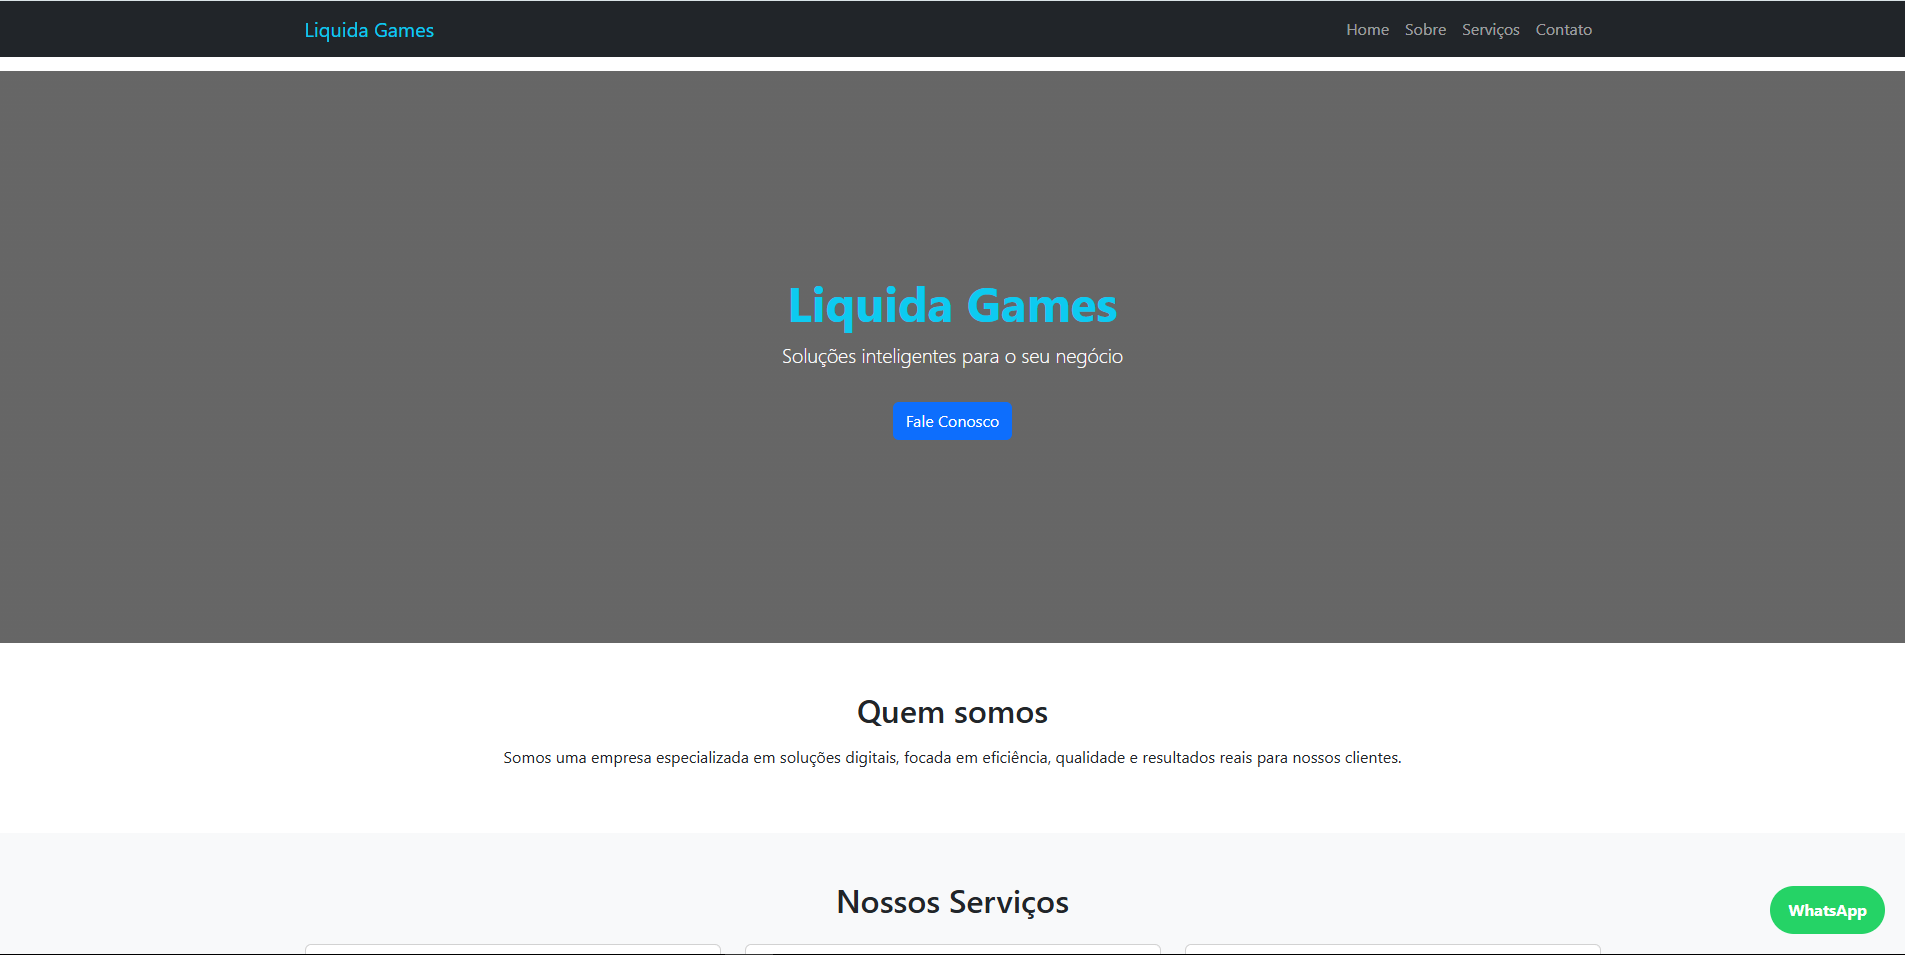
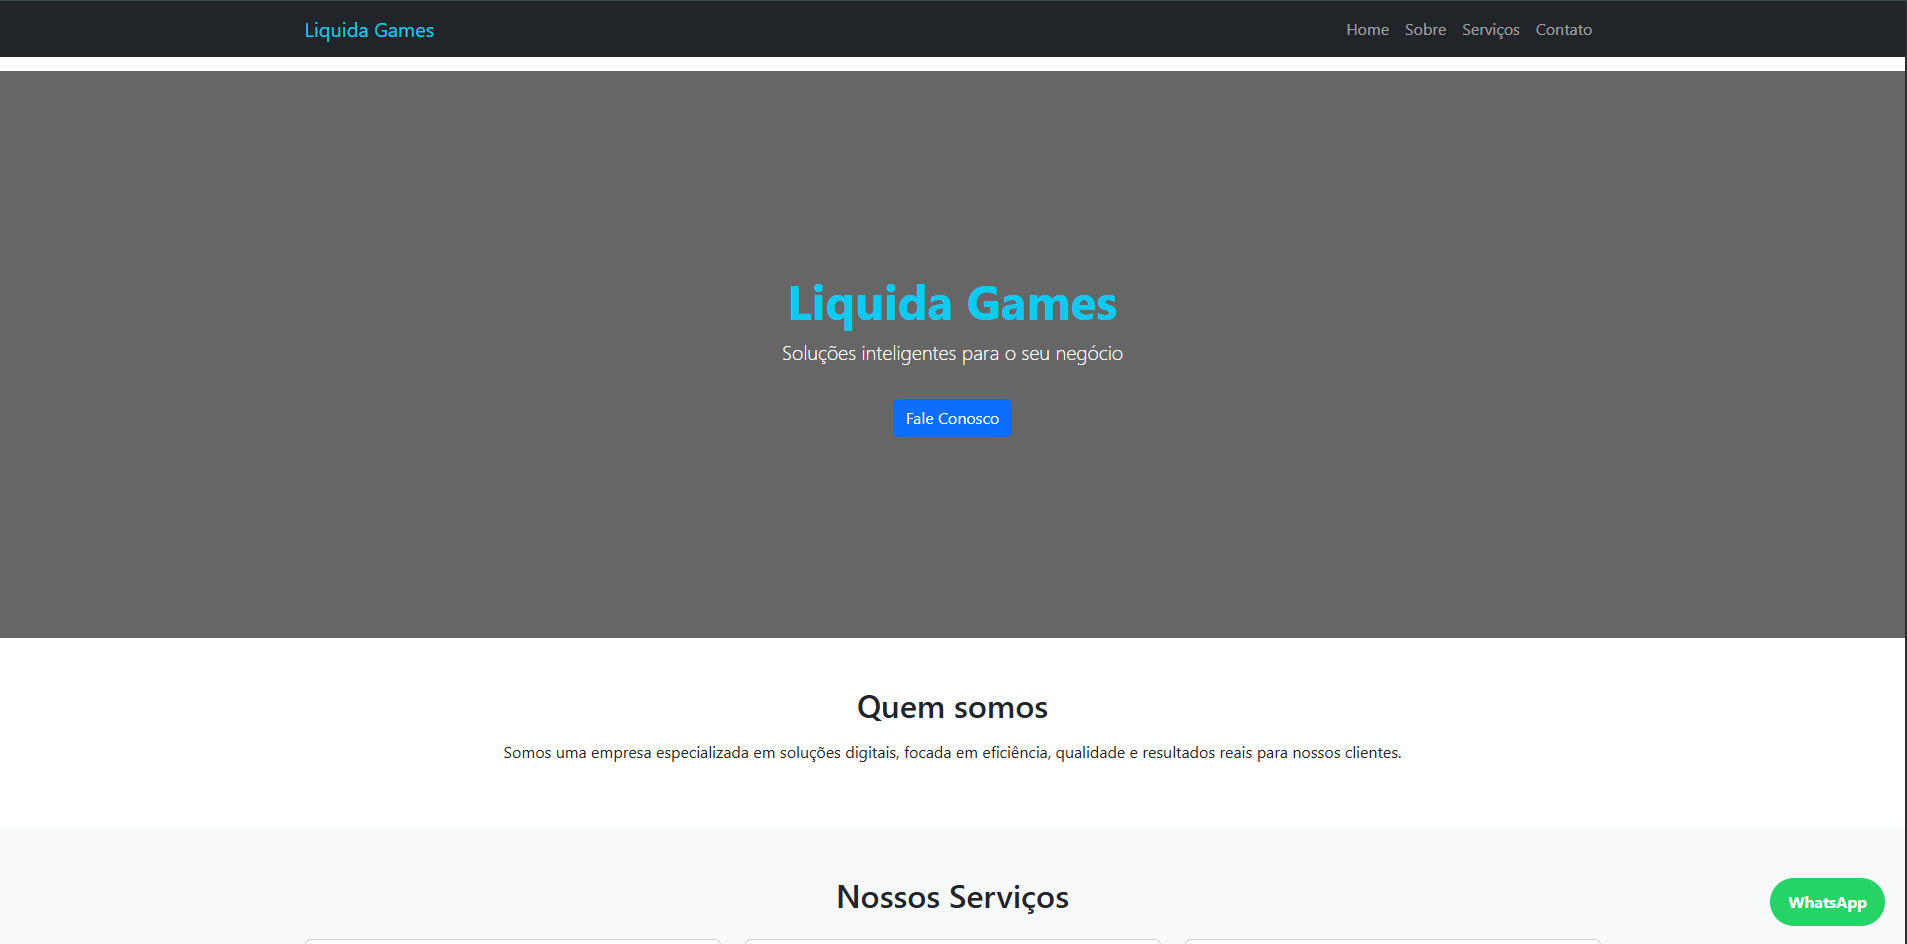
add new project

diff --git a/portfolio/src/components/Home/Main.jsx b/portfolio/src/components/Home/Main.jsx
@@ -4,6 +4,7 @@ import NextPage from "../projetos/ButtonNextPage";
 import GuilhermeImg from "../../assets/img/Guilherme.jpeg"
 import ProfileCard from "../Profile/MyCard";
 import AsideCard from "./AsideCard";
+import qrcode from "../../assets/img/qrcode.png";
 import { Pencil } from "lucide-react";
 
 function HomeMain() {
@@ -24,11 +25,11 @@ function HomeMain() {
           </div>
         </div>
         <div className="flex flex-col">
-          <div className="ml-4 mt-4 font-bold w-[85%] text-xl lg:text-3xl lg:font-extralight 3xl:text-6xl">
+          <div className="ml-4 mt-4 font-bold w-[85%] text-xl lg:text-4xl lg:font-extralight 3xl:text-6xl">
             <p className="text-white">Transformando ideias em <span className="text-lime-400">Interfaces intuitivas</span> e experiências envolventes</p>
           </div>
           <div className="h-1 bg-lime-400 w-[90%] ml-4 mt-2 "></div>
-          <div className="text-sm font-medium text-white mt-6 ml-4 w-[90%] 3xl:text-2xl">
+          <div className="text-sm font-medium text-white mt-6 ml-4 w-[90%] xl:text-xl">
             <p>
               Oi! Sou <span className="text-lime-400">Guilherme Luiz</span>,
               desenvolvedor em formação e apaixonado por tecnologia. Neste portfólio
@@ -38,13 +39,13 @@ function HomeMain() {
           </div>
           <p className="text-lg font-bold text-white ml-4 mt-4 3xl:text-3xl">Destaque recente</p>
           <div className="">
-            <ProjetoCard
-              imagem={liquida}
-              titulo="Liquida Games"
-              descricao={
-                "Feito com intuito de entender como funciona o JavaScript DOM e manipulação de formulários. Tecnologias..."
-              }
-            />
+           <ProjetoCard
+                  imagem={qrcode}
+                  titulo={"Gerador de QR Code"}
+                  descricao={
+                    "O Gerador de QR Code é um projeto de interface web desenvolvido com o objetivo de oferecer uma experiência simples, prática e intuitiva para a geração de códigos QR a partir de textos ou links inseridos pelo usuário. A aplicação permite que o usuário interaja de forma rápida com a interface, visualizando o QR Code gerado de maneira dinâmica após a solicitação.Durante o desenvolvimento, foram implementadas validações para garantir que o campo de entrada não esteja vazio antes da geração do QR Code, contribuindo para uma melhor usabilidade e evitando erros na interação. Além disso, foram trabalhados conceitos de manipulação de eventos para tornar a experiência mais fluida e responsiva. O projeto foi desenvolvido utilizando HTML para a estrutura da página, CSS para estilização e responsividade, e JavaScript para consumo da API de geração de QR Code, além de controlar a lógica da aplicação e as interações do usuário."
+                  }
+                />
           </div>
           <div>
             <NextPage

diff --git a/portfolio/src/components/projetos/GeradorQrCode.jsx b/portfolio/src/components/projetos/GeradorQrCode.jsx
@@ -1,0 +1,34 @@
+import ProjetosIntra from "./HomeProjetosSingle";
+import AsideCard from "../Home/AsideCard"
+import qrcode from "../../assets/img/qrcode.png"
+import liquida from "../../assets/img/LiquidaGames.png"
+
+
+function ProjectGeradorQrCode() {
+    return (
+        <>
+            <div className="grid lg:grid-cols-[500px_1fr] xl:grid-cols-[600px_1fr] lg:mt-20 ">
+                <div className="hidden lg:block">
+                    <div className="lg:fixed top-20">
+                        <AsideCard/>
+                    </div>
+                </div>
+                <div className="">
+                    <ProjetosIntra
+                        title={"Gerador QR Code"}
+                        botaoVolta={"/Projetos"}
+                        descricao={"O Gerador de QR Code é um projeto de interface web desenvolvido com o objetivo de oferecer uma experiência simples, prática e intuitiva para a geração de códigos QR a partir de textos ou links inseridos pelo usuário. A aplicação permite que o usuário interaja de forma rápida com a interface, visualizando o QR Code gerado de maneira dinâmica após a solicitação.Durante o desenvolvimento, foram implementadas validações para garantir que o campo de entrada não esteja vazio antes da geração do QR Code, contribuindo para uma melhor usabilidade e evitando erros na interação. Além disso, foram trabalhados conceitos de manipulação de eventos para tornar a experiência mais fluida e responsiva. O projeto foi desenvolvido utilizando HTML para a estrutura da página, CSS para estilização e responsividade, e JavaScript para consumo da API de geração de QR Code, além de controlar a lógica da aplicação e as interações do usuário."}
+                        data={"26/04/2026"}
+                        img={qrcode}
+                        deploy={"https://gerador-qrcode-flax.vercel.app/"}
+                        repositorio={"https://github.com/GuiLuiz06/Gerador-Qrcode"}
+                        frontend={"Html, Css, JavaScript"}
+                        bibliotecas={"Não foi utilizada nenhuma biblioteca externa nesse projeto"}
+                        ferramentas={"Visual Studio Code"}
+                    />
+                </div>
+            </div>
+        </>
+    )};
+
+    export default ProjectGeradorQrCode

diff --git a/portfolio/src/components/projetos/HomeProjetos.jsx b/portfolio/src/components/projetos/HomeProjetos.jsx
@@ -2,6 +2,7 @@ import ProjetoCard from "./ProjetosCard";
 import NextPage from "./ButtonNextPage";
 import liquida from "../../assets/img/LiquidaGames.png";
 import AsideCard from "../Home/AsideCard";
+import qrcode from "../../assets/img/qrcode.png";
 import { Layers } from "lucide-react";
 
 function HomeProject() {
@@ -18,13 +19,20 @@ function HomeProject() {
             <p className="font-bold">Projetos</p>
             <p className="text-base">Lista dos meus projetos:</p>
           </div>
-          <div className="flex flex-wrap">
-            <div className="">
+          <div className="flex flex-row">
+            <div className="flex flex-col lg:flex-row gap-6">
               <ProjetoCard
                 imagem={liquida}
                 titulo={"Liquida Games"}
                 descricao={
                   "Liquida Games é um projeto de interface web que simula uma loja de Tecnologia. A aplicação foi desenvolvida com o objetivo de criar uma experiência simples e organizada para que usuários possam visualizar ofertas e interagir com formulários dentro da plataforma. Durante o desenvolvimento, foram implementadas validações de dados para garantir que as informações inseridas pelos usuários estejam corretas, contribuindo para uma navegação mais segura e intuitiva."
+                }
+              />
+              <ProjetoCard
+                imagem={qrcode}
+                titulo={"Gerador de QR Code"}
+                descricao={
+                  "O Gerador de QR Code é um projeto de interface web desenvolvido com o objetivo de oferecer uma experiência simples, prática e intuitiva para a geração de códigos QR a partir de textos ou links inseridos pelo usuário. A aplicação permite que o usuário interaja de forma rápida com a interface, visualizando o QR Code gerado de maneira dinâmica após a solicitação. Durante o desenvolvimento, foram implementadas validações para garantir que o campo de entrada não esteja vazio antes da geração do QR Code, contribuindo para uma melhor usabilidade e evitando erros na interação. Além disso, foram trabalhados conceitos de manipulação de eventos para tornar a experiência mais fluida e responsiva."
                 }
               />
             </div>

diff --git a/portfolio/src/App.jsx b/portfolio/src/App.jsx
@@ -11,6 +11,7 @@ import HomeProject from "./components/projetos/HomeProjetos";
 import Contact from "./components/contatos/Contats";
 import ProjectLiquida from "./components/projetos/Liquida";
 import AsideCard from "./components/Home/AsideCard";
+import ProjectGeradorQrCode from "./components/projetos/GeradorQrCode";
 
 function App() {
   return (
@@ -44,6 +45,16 @@ function App() {
               <>
                 <div className="flex flex-col w-full mb-[30%] sm:mb-[13%] lg:mb-4">
                   <ProjectLiquida />
+                </div>
+              </>
+            }
+          />
+          <Route
+            path="/Projetos/gerador-de-qr-code"
+            element={
+              <>
+                <div className="flex flex-col w-full mb-[30%] sm:mb-[13%] lg:mb-4">
+                  <ProjectGeradorQrCode />
                 </div>
               </>
             }

diff --git a/portfolio/src/components/projetos/HomeProjetosSingle.jsx b/portfolio/src/components/projetos/HomeProjetosSingle.jsx
@@ -17,8 +17,10 @@ function ProjetosIntra({
       <div className="">
         <div className="flex flex-row gap-4 p-4">
 
-          <a href={botaoVolta} className="flex flex-row gap-4 p-2 lg:ml-2 xl:ml-8 border-2 rounded-xl text-slate-600 hover:bg-lime-500 transition duration-500">
-            <ArrowLeft />
+          <a href={botaoVolta} className="flex flex-row gap-4 p-2 lg:ml-2 xl:ml-12 border-2 rounded-xl text-slate-600 hover:bg-lime-500 transition duration-500">
+            <div className="flex justify-center items-center">
+              <ArrowLeft />
+            </div>
 
           </a>
 
